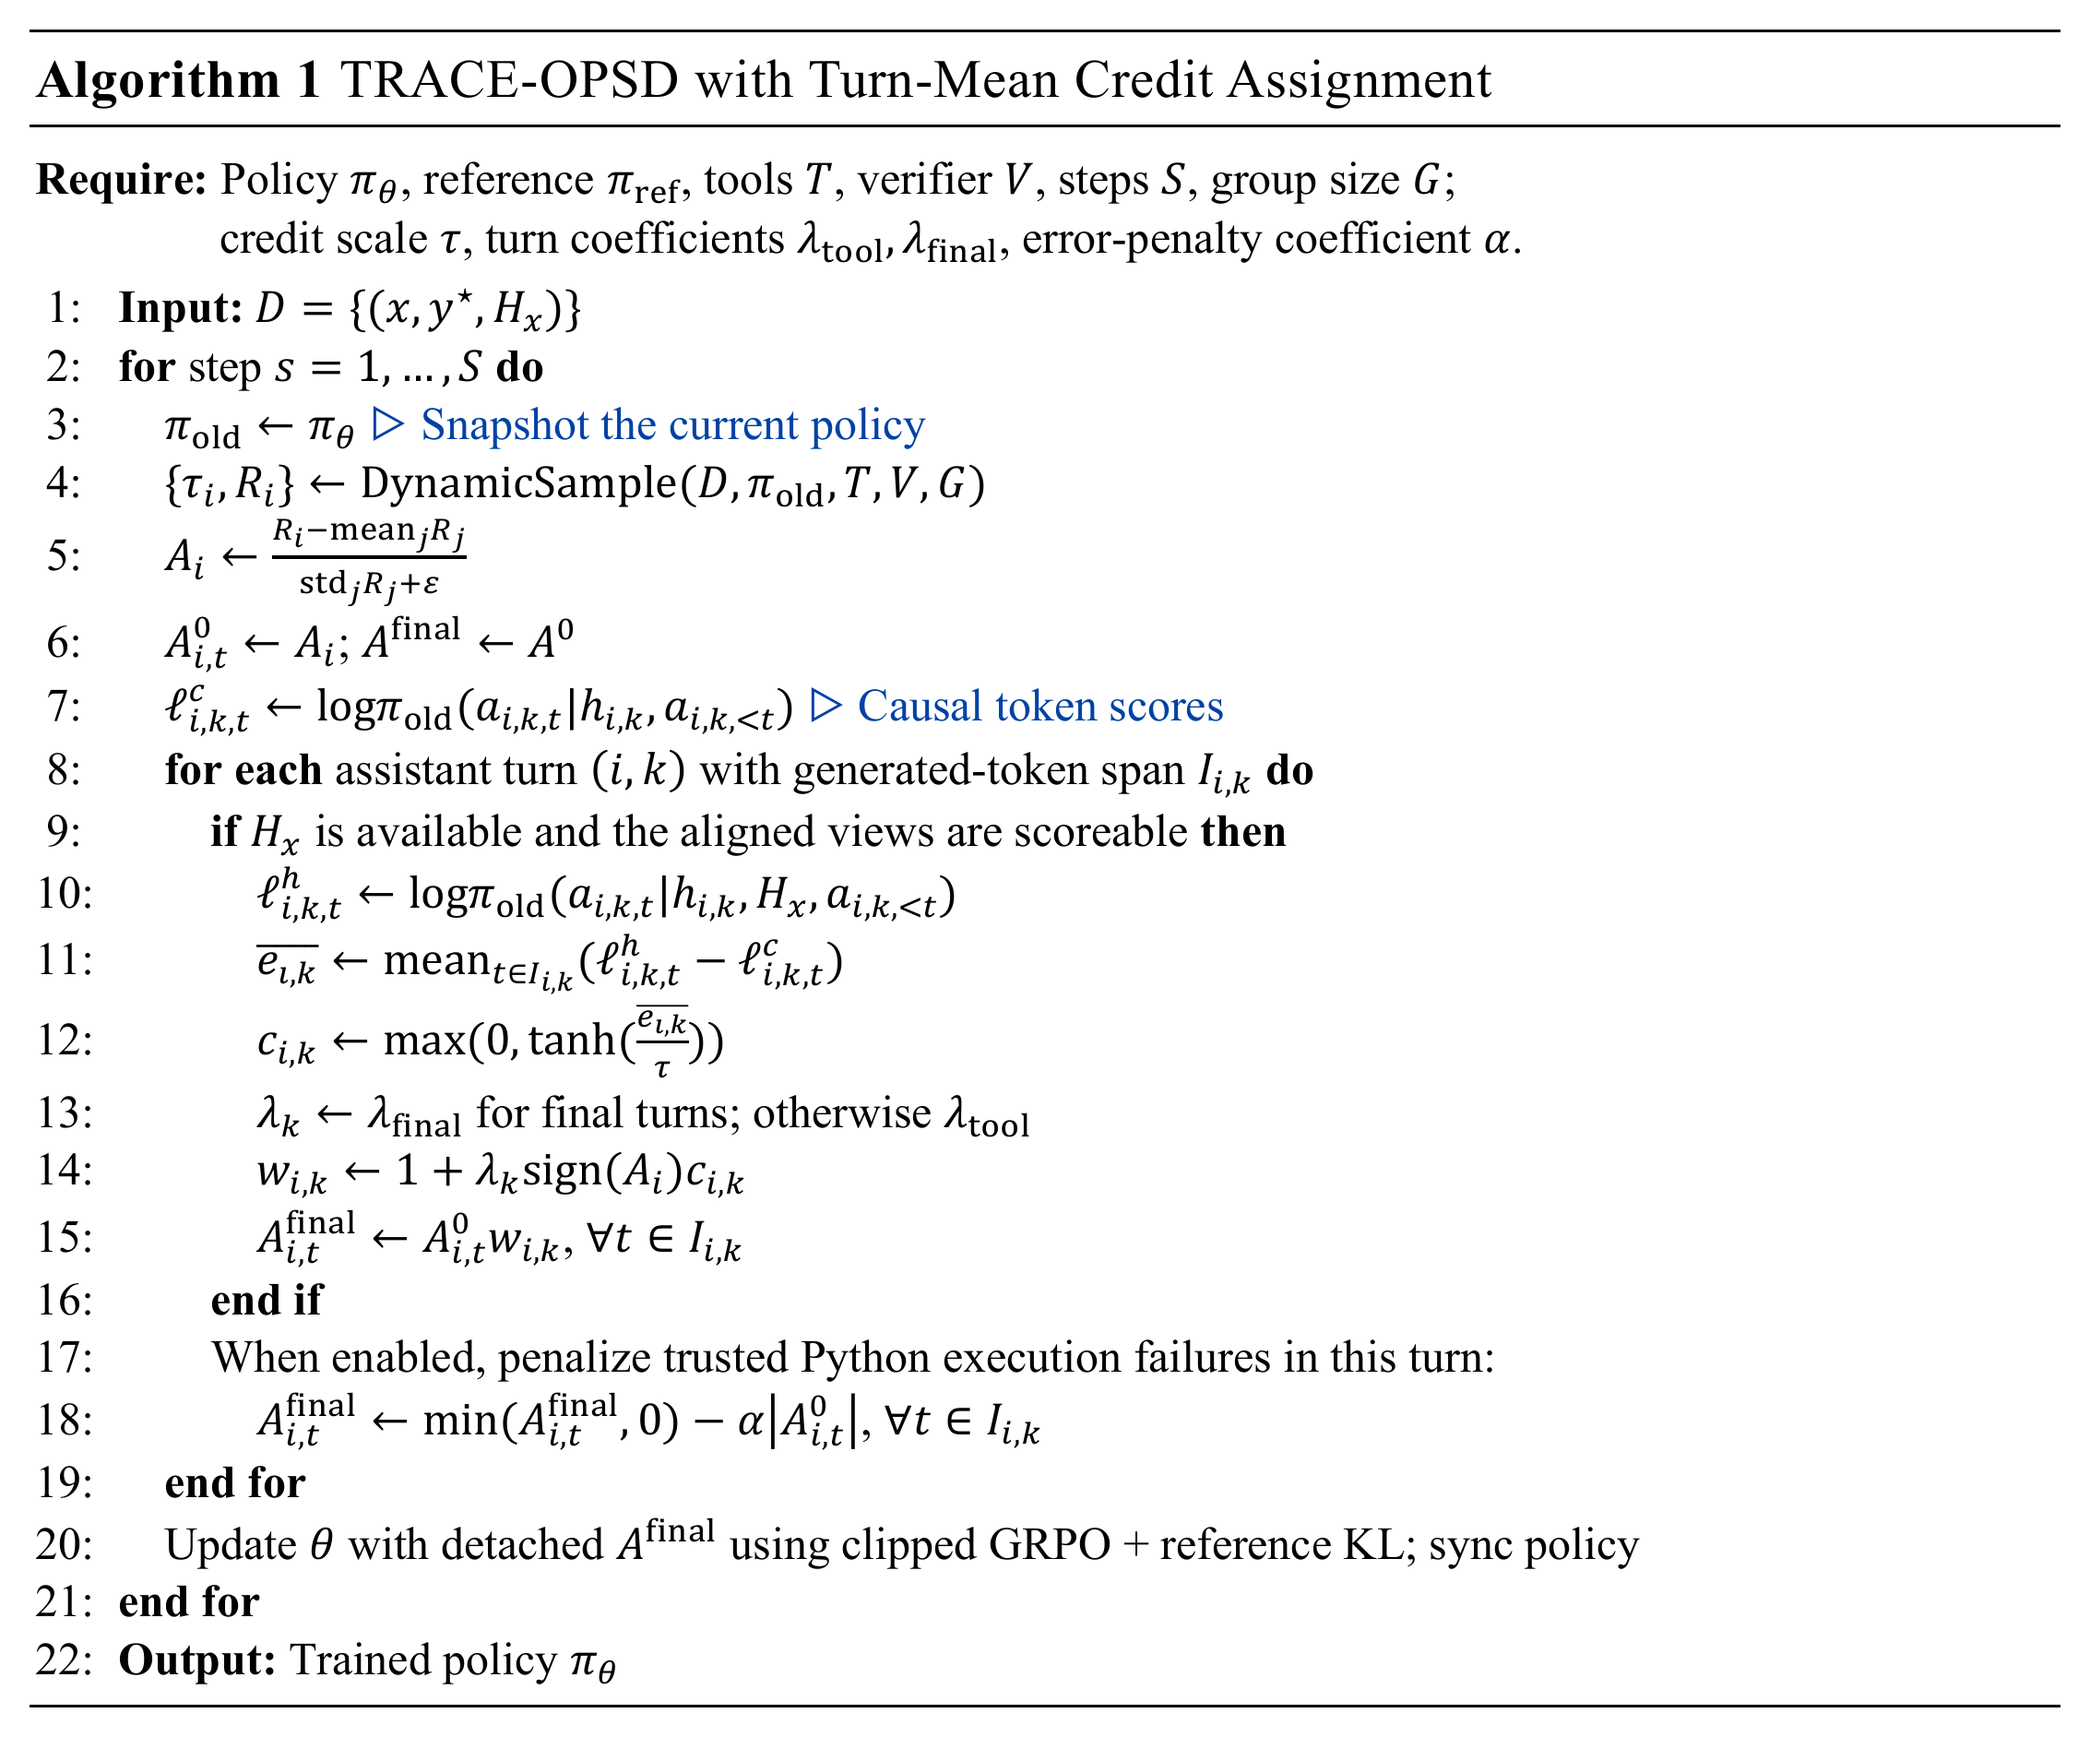
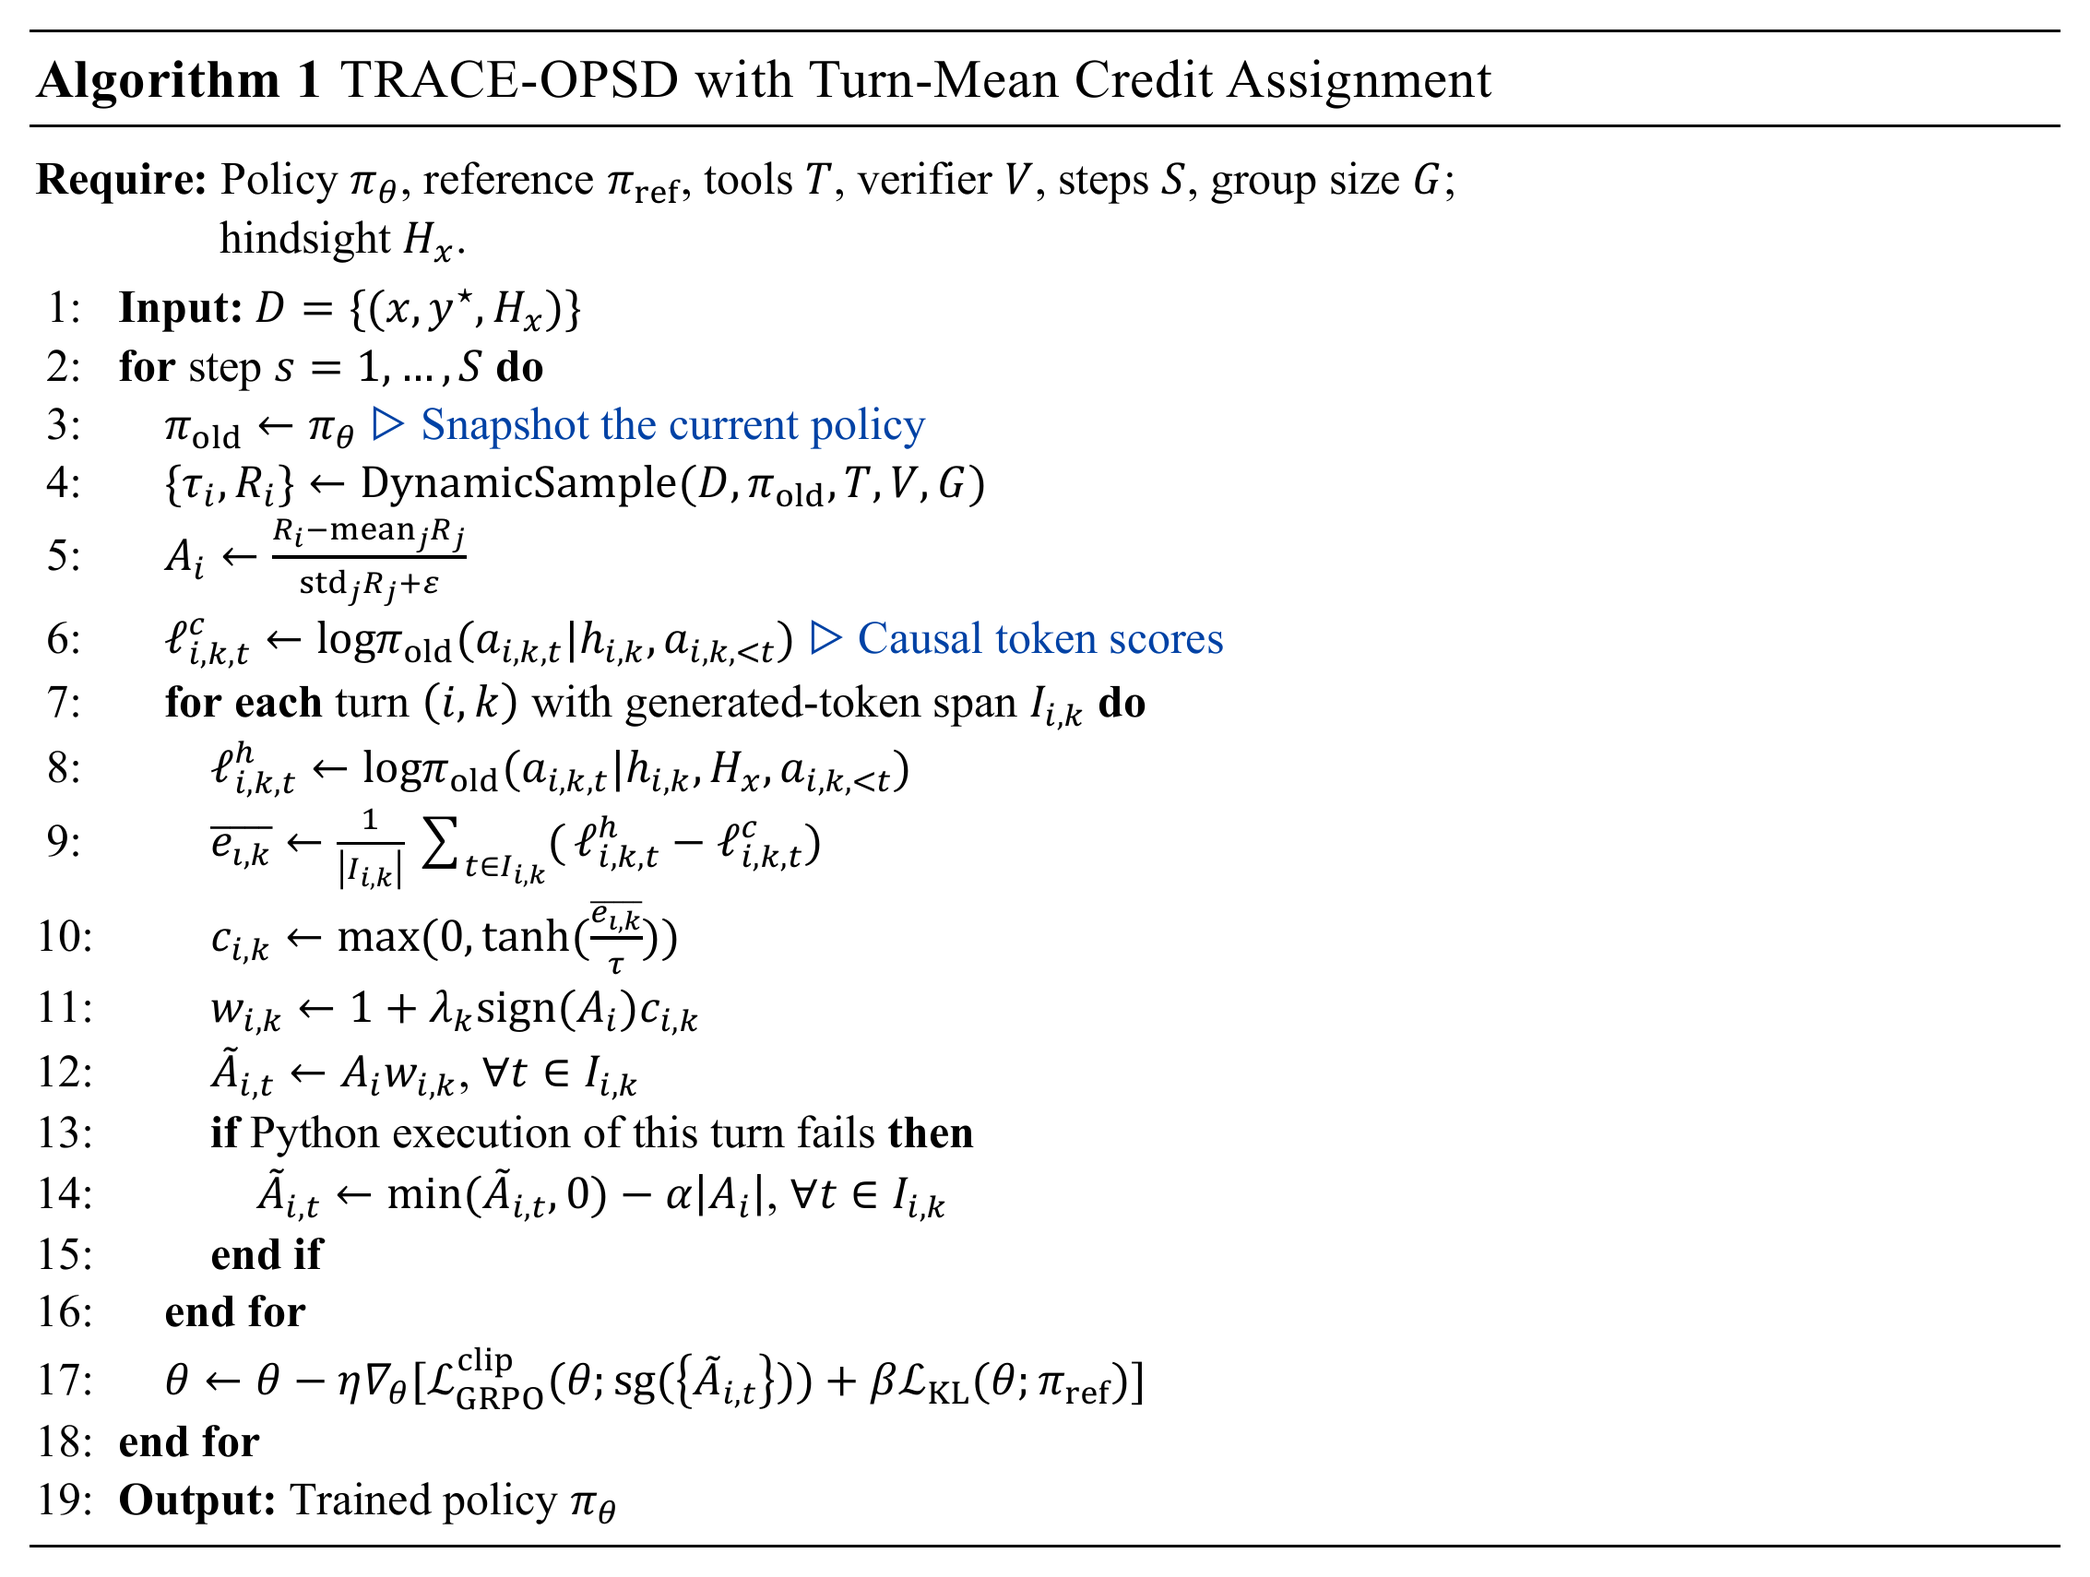
Simplify TRACE-OPSD pseudocode advantage notation to 19 steps

diff --git a/README.md b/README.md
@@ -27,7 +27,7 @@ A post-training framework for multi-turn mathematical reasoning.
 
 ## Algorithm pseudocode
 
-![Algorithm 1: TRACE-OPSD training with turn-mean credit assignment in 22 numbered steps](docs/images/trace-opsd-algorithm.png)
+![Algorithm 1: TRACE-OPSD training with turn-mean credit assignment in 19 numbered steps](docs/images/trace-opsd-algorithm.png)
 
 ## Assets and runtime directories
 

diff --git a/docs/trace-opsd-method.md b/docs/trace-opsd-method.md
@@ -134,5 +134,5 @@ The actor optimizes a clipped GRPO objective with shaped advantages:
 
 ## 6. Algorithm pseudocode
 
-![Algorithm 1: TRACE-OPSD training with turn-mean credit assignment, in 22 numbered steps](images/trace-opsd-algorithm.png)
+![Algorithm 1: TRACE-OPSD training with turn-mean credit assignment, in 19 numbered steps](images/trace-opsd-algorithm.png)
 
